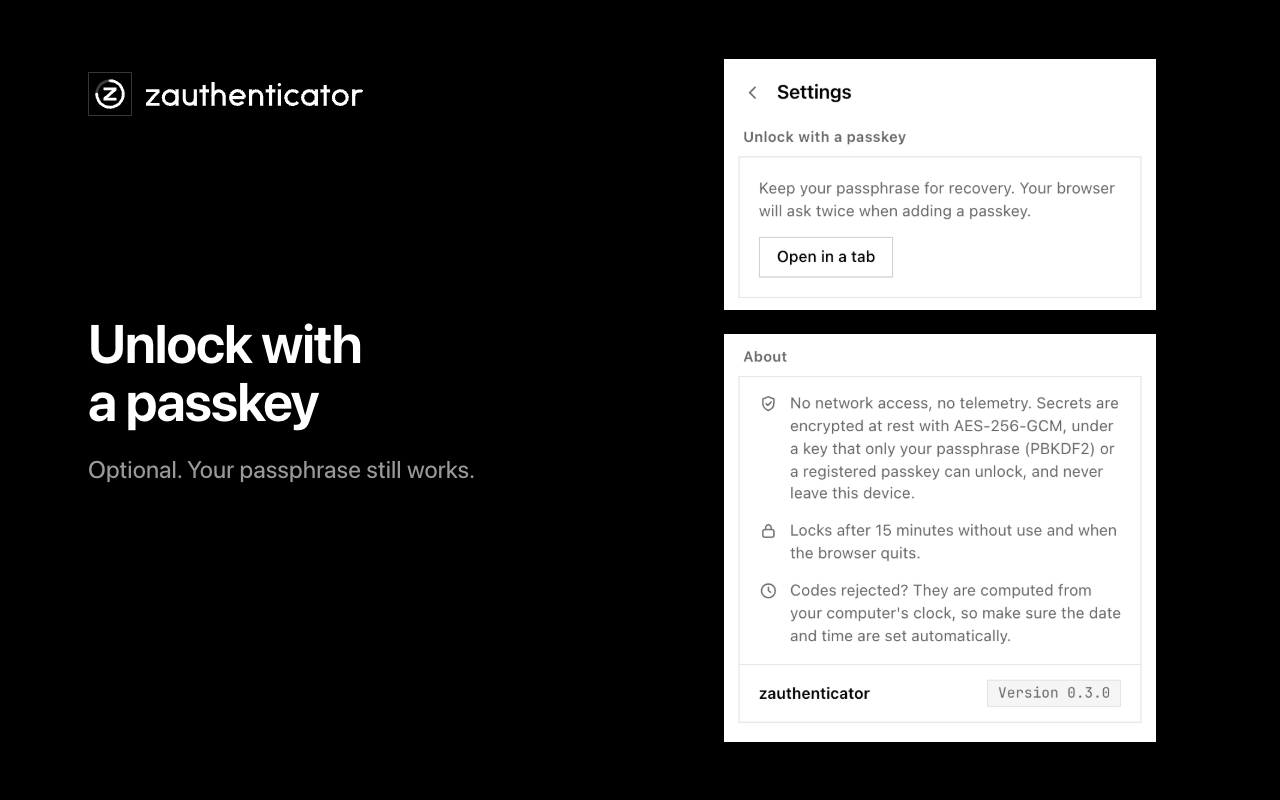
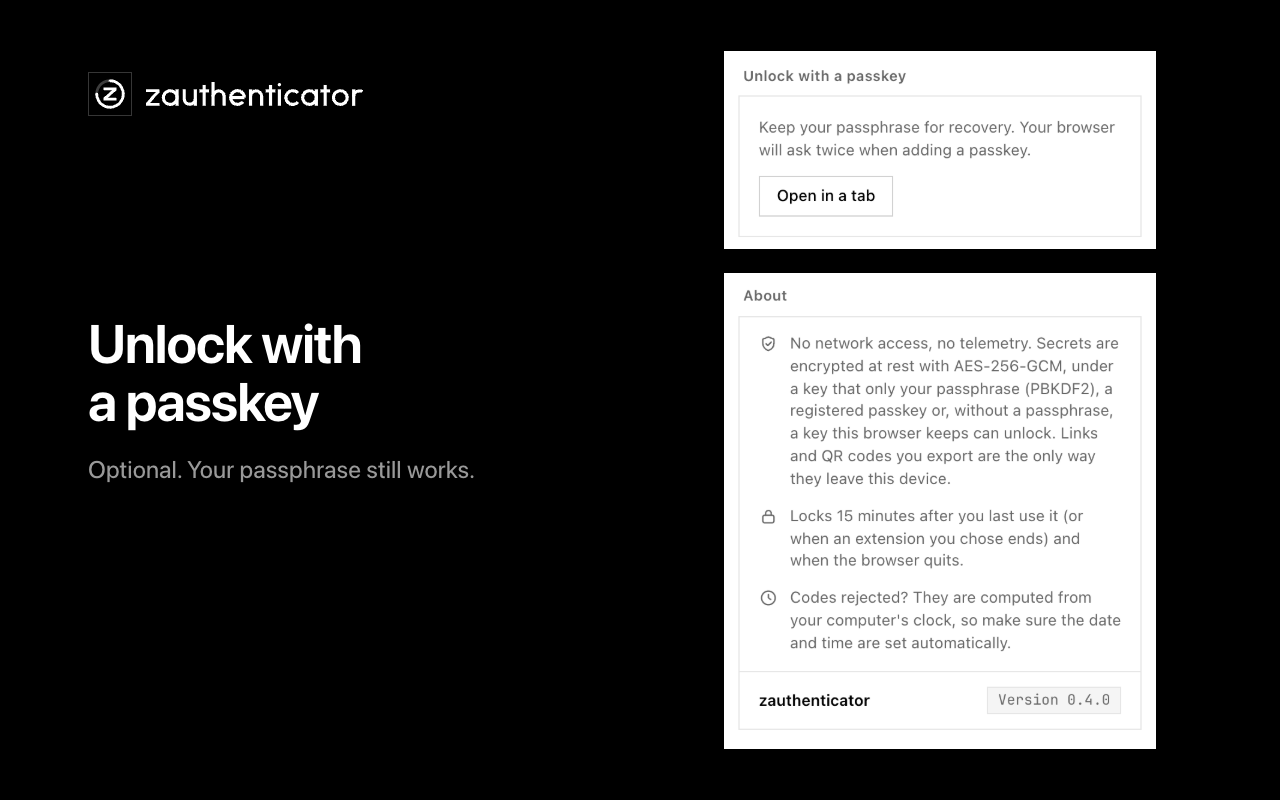
release: 0.4.0 screenshots from the new UI; About's security line covers the device key and exports
The settings screenshot now scrolls to the passkey section, which the passphrase section pushed
down; the list screenshot shows the lock time with Extend.

Refs #7

diff --git a/store/listing/submission-checklist.md b/store/listing/submission-checklist.md
@@ -18,8 +18,9 @@ The owner asked on 2026-11-25 for the 0.4 features, a release and an Edge Add-on
 - [ ] Merge to `main`, push the tag `v0.4.0`, check the release zip's sha256.
 - [ ] Edge Add-ons: upload `zauthenticator-0.4.0.zip` as an update of the live listing, paste the
       0.4.0 descriptions and notes, publish.
-- Screenshots are the 0.3.0 ones; the views they show did not change apart from the lock-time
-  line in the list.
+- [x] Screenshots regenerated from the 0.4.0 UI (`node scripts/build-screenshots.mjs`): the list
+      shows the lock time with Extend; `5-settings.png` shows the passkey section (now below the
+      passphrase section) and About with "Version 0.4.0".
 
 ## 0.3.0 release
 
